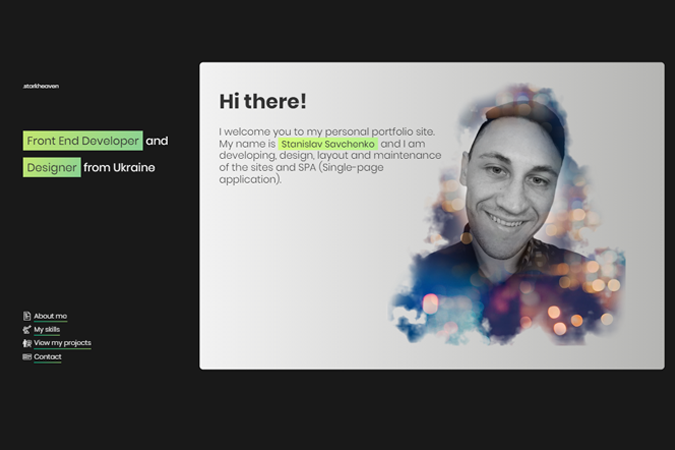
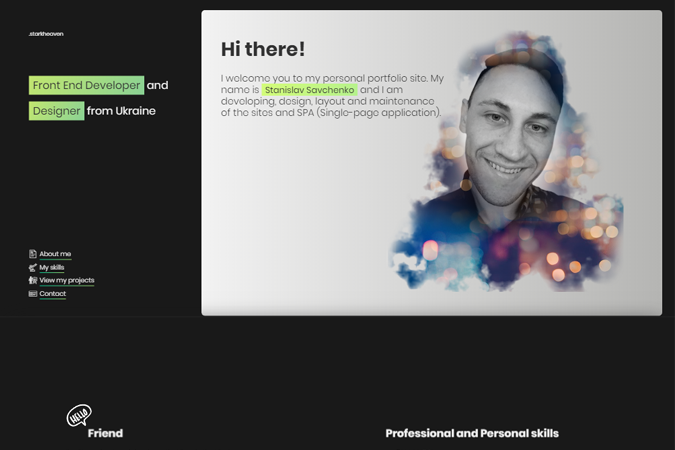
added modal window

diff --git a/src/index.html b/src/index.html
@@ -184,22 +184,32 @@
           <p>Okay, seriously. These are my works that I am not ashamed to show. While they are not here, but in the future they will appear.</p>
         </div>
         <div class="projects-grid-container">
-          <a class="grid-items" href="#">
+          <a class="grid-items" >
             <div class="toolbar">
               <div class="dot-icon"></div>
               <div class="dot-icon"></div>
               <div class="dot-icon"></div>
             </div>
             <div class="project-card">
-              <img class="project-img" src="/static/img/test_image.png" alt="Screenshot of 'Project1'">
+              <img class="project-img" src="/static/img/project1.png" alt="Screenshot of 'Project1'">
               <svg class="svg-icon-eye">
                 <use class="eye" href="/static/img/icons/eye.svg#Capa_1"></use>
               </svg>
             </div>
-            <h2 class="project-heading"></h2>
-            <p class="project-text"></p>
+            <h3 class="project-heading">Portfolio</h3>
+            <p class="project-text">Landing page</p>
+            <div class="modal">
+              <div class="modal-container">
+                <div class="modal-top">
+                  <h2>Portfolio - landing page</h2>
+                  <div class="modal-close">X</div>
+                </div>
+              </div>
+            </div>
           </a>
-          <a class="grid-items" href="#">
+
+
+          <a class="grid-items" >
             <div class="toolbar">
               <div class="dot-icon"></div>
               <div class="dot-icon"></div>
@@ -211,10 +221,10 @@
                 <use class="eye" href="/static/img/icons/eye.svg#Capa_1"></use>
               </svg>
             </div>
-            <h2 class="project-heading"></h2>
-            <p class="project-text"></p>
+            <h2 class="project-heading">Test</h2>
+            <p class="project-text">test</p>
           </a>
-          <a class="grid-items" href="#">
+          <a class="grid-items" >
             <div class="toolbar">
               <div class="dot-icon"></div>
               <div class="dot-icon"></div>
@@ -226,10 +236,10 @@
                 <use class="eye" href="/static/img/icons/eye.svg#Capa_1"></use>
               </svg>
             </div>
-            <h2 class="project-heading"></h2>
-            <p class="project-text"></p>
+            <h2 class="project-heading">Test</h2>
+            <p class="project-text">test</p>
           </a>
-          <a class="grid-items" href="#">
+          <a class="grid-items" >
             <div class="toolbar">
               <div class="dot-icon"></div>
               <div class="dot-icon"></div>
@@ -241,10 +251,10 @@
                 <use class="eye" href="/static/img/icons/eye.svg#Capa_1"></use>
               </svg>
             </div>
-            <h2 class="project-heading"></h2>
-            <p class="project-text"></p>
+            <h2 class="project-heading">Test</h2>
+            <p class="project-text">test</p>
           </a>
-          <a class="grid-items" href="#">
+          <a class="grid-items" >
             <div class="toolbar">
               <div class="dot-icon"></div>
               <div class="dot-icon"></div>
@@ -256,10 +266,10 @@
                 <use class="eye" href="/static/img/icons/eye.svg#Capa_1"></use>
               </svg>
             </div>
-            <h2 class="project-heading"></h2>
-            <p class="project-text"></p>
+            <h2 class="project-heading">Test</h2>
+            <p class="project-text">test</p>
           </a>
-          <a class="grid-items" href="#">
+          <a class="grid-items" >
             <div class="toolbar">
               <div class="dot-icon"></div>
               <div class="dot-icon"></div>
@@ -271,8 +281,8 @@
                 <use class="eye" href="/static/img/icons/eye.svg#Capa_1"></use>
               </svg>
             </div>
-            <h2 class="project-heading"></h2>
-            <p class="project-text"></p>
+            <h2 class="project-heading">Test</h2>
+            <p class="project-text">test</p>
           </a>
         </div>
       </section>
